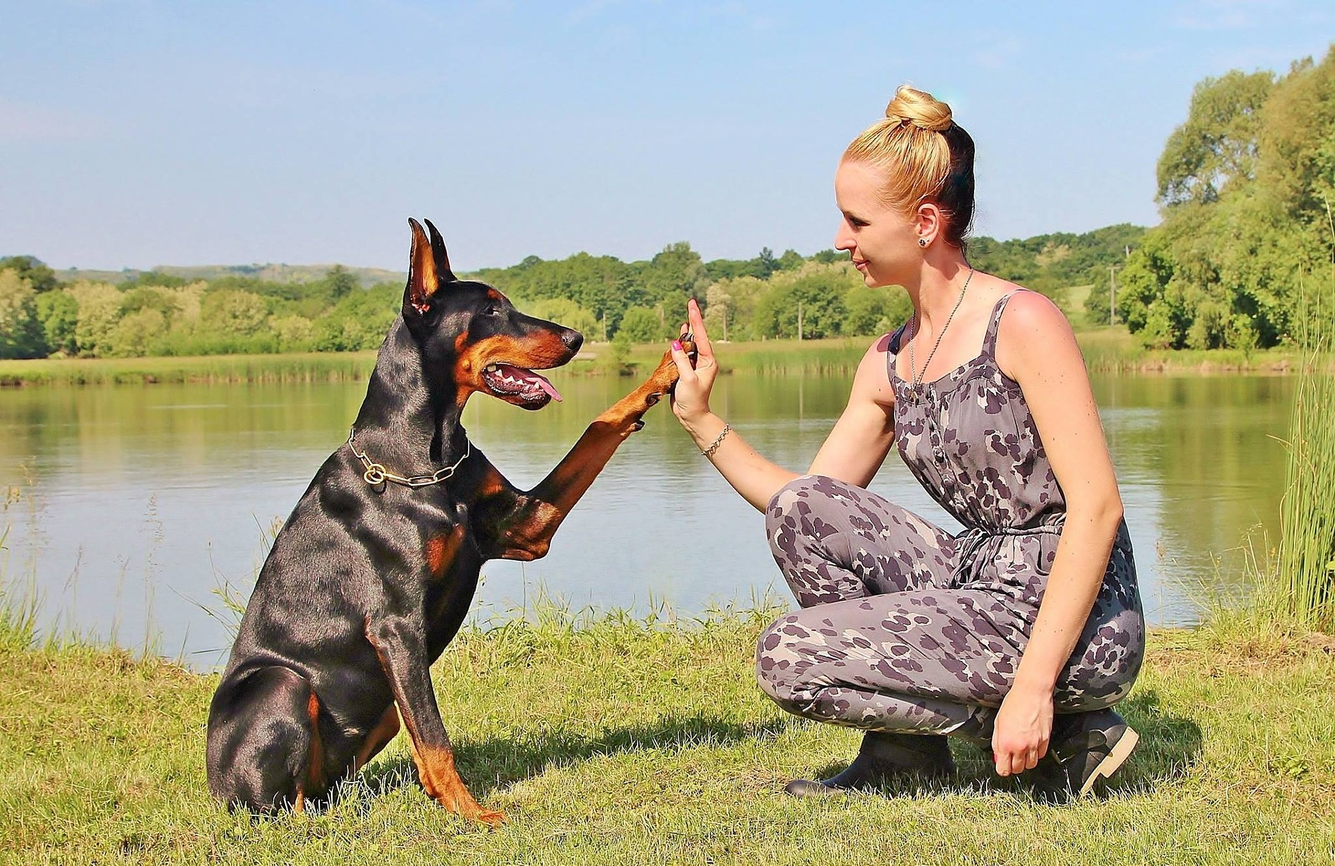
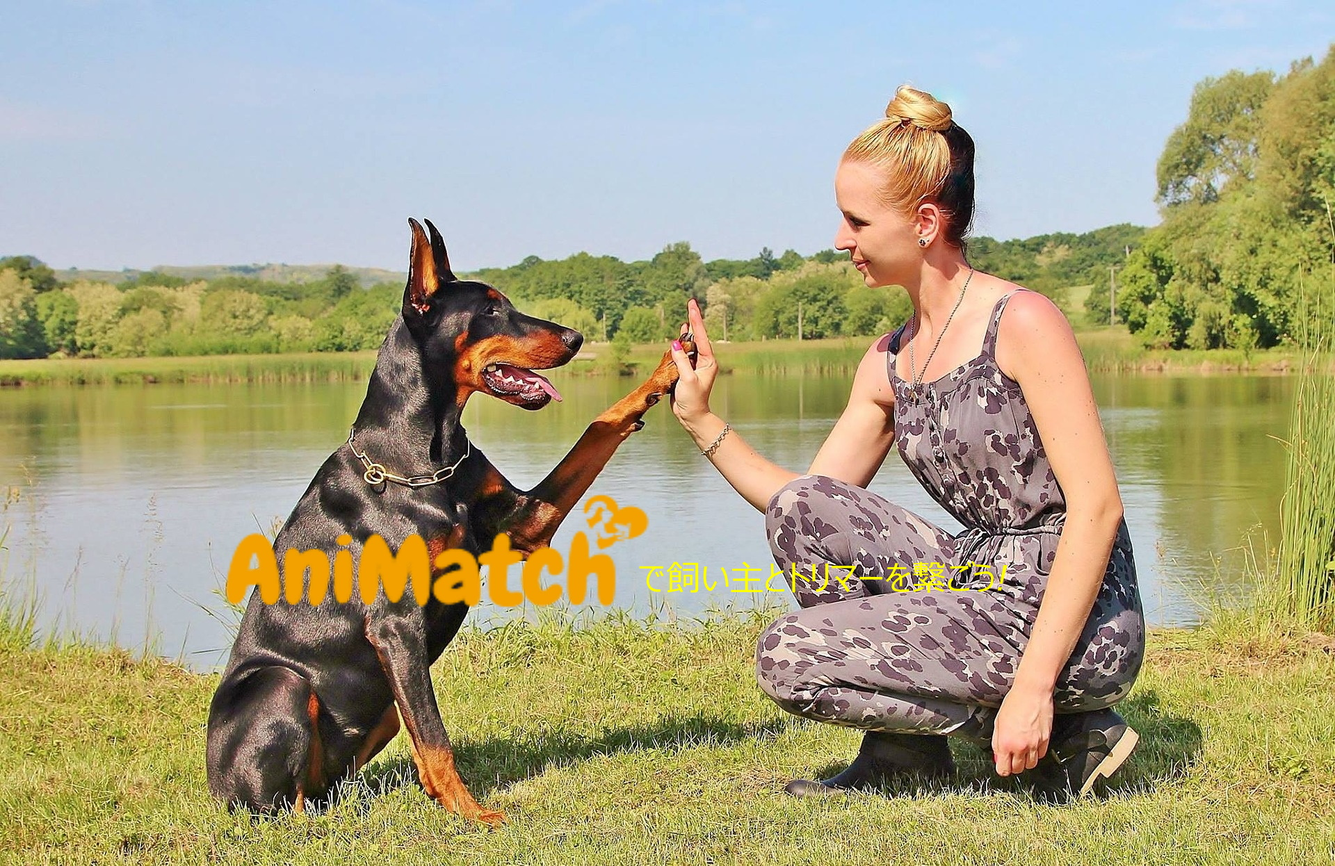
2020/02/29 UPDATE:レスポンシブ対応

Changed region(s): [[0.1562, 0.549, 0.75, 0.7014]]

diff --git a/02開発/WebAniMatchApp/index.html b/02開発/WebAniMatchApp/index.html
@@ -33,13 +33,16 @@
                 <span class="navbar-toggler-icon"></span>
             </button>
 
-            <div class="collapse navbar-collapse" id="navbar-supported-content">
+            <div class="collapse navbar-collapse collapse-item" id="navbar-supported-content">
                 <ul class="navbar-nav mr-auto">
                     <li class="nav-item"><a class="nav-link" href="search.html">お店を探す<img src="img/icon/search.png" alt="検索アイコン"></a></li>
                     <li class="nav-item"><a class="nav-link" href="search.html">飼い主を探す<img src="img/icon/search.png" alt="検索アイコン"></a></li>
                 </ul>
-                <button class="btn btn-outline-info my-2 my-sm-0 mr-2 is-show--regist" type="submit">新規会員登録</button>
-                <button class="btn btn-outline-success my-2 my-sm-0 ml-2 is-show--login" type="submit">ログイン</button>
+
+                <ul class="navbar-nav">
+                    <li class="nav-item ml-auto mr-md-3 collapse-item-btn-search"><a class="nav-link btn btn-outline-info" type="submit" href="search.html">新規会員登録</a></li>
+                    <li class="nav-item ml-auto mr-md-2 collapse-item-btn-login"><a class="nav-link btn btn-outline-success" type="submit" href="login.html">ログイン</a></li>
+                </ul>
             </div> 
 
         </nav>
@@ -49,10 +52,10 @@
     <!--メイン-->
     <main>
         <div class="jumbotron">
-            <div class="container jumbotron-content">
+            <!-- <div class="container jumbotron-content">
                 <img class="jumbotron-content-message-img" src="img/rogo/animatch.png" alt="Animatchロゴ">
                 <span class="jumbotron-content-message-writing">で飼い主とトリマーを繋ごう&excl;&excl;</span>
-            </div>
+            </div> -->
         </div>
 
         <div class="container">
@@ -82,7 +85,7 @@
                                         <img class="main-center-explation-img-content" src="img/main/section-pets-search.png" alt="飼い主検索補足画像">
                                     </figure>
                                 </div>
-                                <div class="col-md p-0">
+                                <div class="col-lg p-0">
                                     <p class="main-center-explation-content">身近にあなたを必要としているペットを探してみましょう&excl;</p>
                                 </div>
                             </div>
@@ -107,12 +110,12 @@
                             </div>
                             <div class="row">
                                 <div class="col-md p-0">
-                                    <figure class="col-md p-0 text-center">
+                                    <figure class="col-lg p-0 text-center">
                                         <img class="main-center-explation-img-content" src="img/main/section-trimmer-message.png" alt="飼い主へダイレクトメッセージ補足画像">
                                     </figure>
                                 </div>
-                                <div class="col-md p-0">
-                                    <p class="main-center-explation-content">実際にトリミングしたいペットの飼い主と連絡をとり、マッチングしてみましょう&excl;</p>
+                                <div class="col-lg p-0">
+                                    <p class="main-center-explation-content">実際にトリミングしたいペットの飼い主と連絡して、マッチングしてみましょう&excl;</p>
                                 </div>
                             </div>
                             <div class="row">
@@ -147,11 +150,11 @@
                             </div>
                             <div class="row">
                                 <div class="col-md p-0">
-                                    <figure class="col-md p-0 text-center">
+                                    <figure class="col-lg p-0 text-center">
                                         <img class="main-center-explation-img-content" src="img/main/section-trimmer-search.png" alt="お店検索補足画像">
                                     </figure>
                                 </div>
-                                <div class="col-md p-0">
+                                <div class="col-lg p-0">
                                     <p class="main-center-explation-content">身近にあなたの役に立ちたいと思っているトリマーのお店を探してみましょう&excl;</p>
                                 </div>
                             </div>
@@ -176,12 +179,12 @@
                             </div>
                             <div class="row">
                                 <div class="col-md p-0">
-                                    <figure class="col-md p-0 text-center">
+                                    <figure class="col-lg p-0 text-center">
                                         <img class="main-center-explation-img-content" src="img/main/section-owner-message.png" alt="お店へダイレクトメッセージ補足画像">
                                     </figure>
                                 </div>
-                                <div class="col-md p-0">
-                                    <p class="main-center-explation-content">実際にトリミングしてほしいお店と連絡をとり、マッチングしてみましょう&excl;</p>
+                                <div class="col-lg p-0">
+                                    <p class="main-center-explation-content">実際にトリミングしてほしいお店と連絡をして、マッチングしてみましょう&excl;</p>
                                 </div>
                             </div>
                             <div class="row">
@@ -203,7 +206,7 @@
 
     <!--フッター-->
     <footer>    
-        <div class="d-flex justify-content-end footer-top">
+        <div class="d-flex justify-content-end pr-3 footer-top">
             <a class="move-page--top" href="#">
                 <img src="img/icon/return_top.png" alt="トップへ戻るアイコン"> <strong>AniMatchの上部へ戻る</strong>
             </a>
@@ -223,7 +226,7 @@
                     </div>
 
                     <div class="col-md-3 mb-md-0 mb-3">
-                        <h5 class="text-uppercase">お店専用メニュー</h5>
+                        <h5 class="text-uppercase">お店専用</h5>
                         <ul class="list-unstyled">
                             <li><a href="search.html">飼い主を探す</a></li>
                             <li><a href="dmessage.html">飼い主へダイレクトメッセージ</a></li>
@@ -231,7 +234,7 @@
                     </div>
 
                     <div class="col-md-3 mb-md-0 mb-3">
-                        <h5 class="text-uppercase">飼い主専用メニュー</h5>
+                        <h5 class="text-uppercase">飼い主専用</h5>
                         <ul class="list-unstyled">
                             <li><a href="search.html">お店を探す</a></li>
                             <li><a href="dmessage.html">お店へダイレクトメッセージ</a></li>

diff --git a/02開発/WebAniMatchApp/css/main.css b/02開発/WebAniMatchApp/css/main.css
@@ -38,14 +38,14 @@ main {
     margin-bottom:0;
 }
 
-.jumbotron-content {
+/* .jumbotron-content {
     color:rgb(255, 255, 100);
     position:absolute;
     top:60%;
     left:25%;
     font-size:30px;
     width:80%;
-}
+} */
 
 .jumbotron-content-message-img {
     zoom:2;
@@ -86,3 +86,18 @@ footer {
     min-height:30px;
 }
 
+@media screen and (max-width:767px) {
+    /*　画面サイズが767pxまではここを読み込む　*/
+    .collapse-item {
+        text-align:right;
+    }
+
+    .collapse-item-btn-search {
+        margin-bottom:5px
+    }
+
+    .collapse-item-btn-search {
+        margin-top:5px;
+        margin-bottom:10px;
+    }
+}
